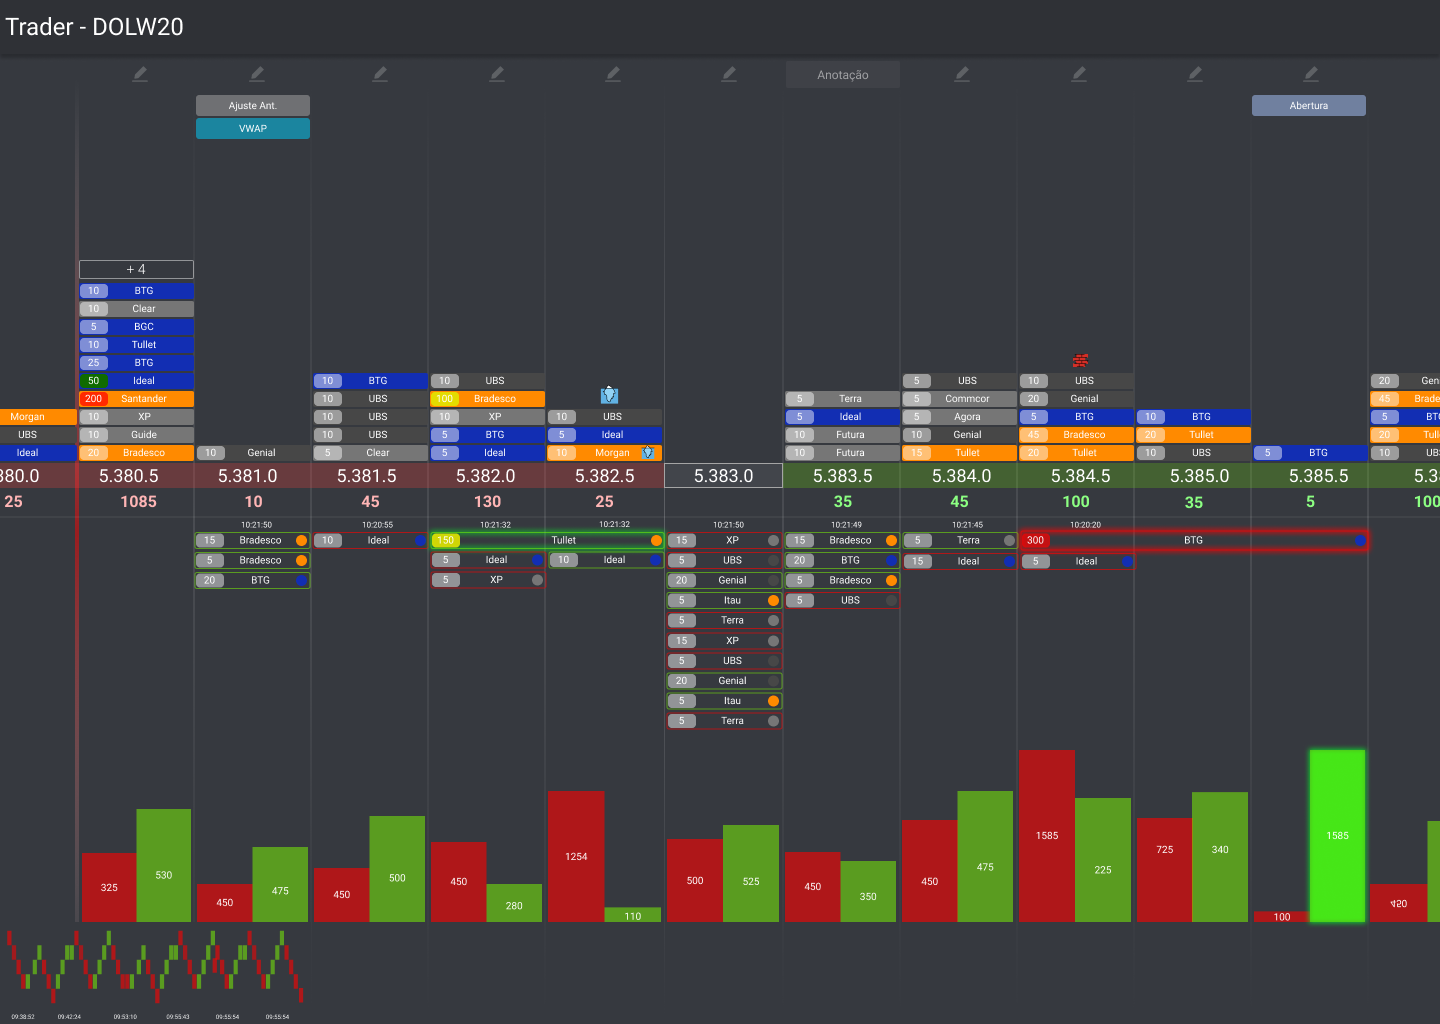
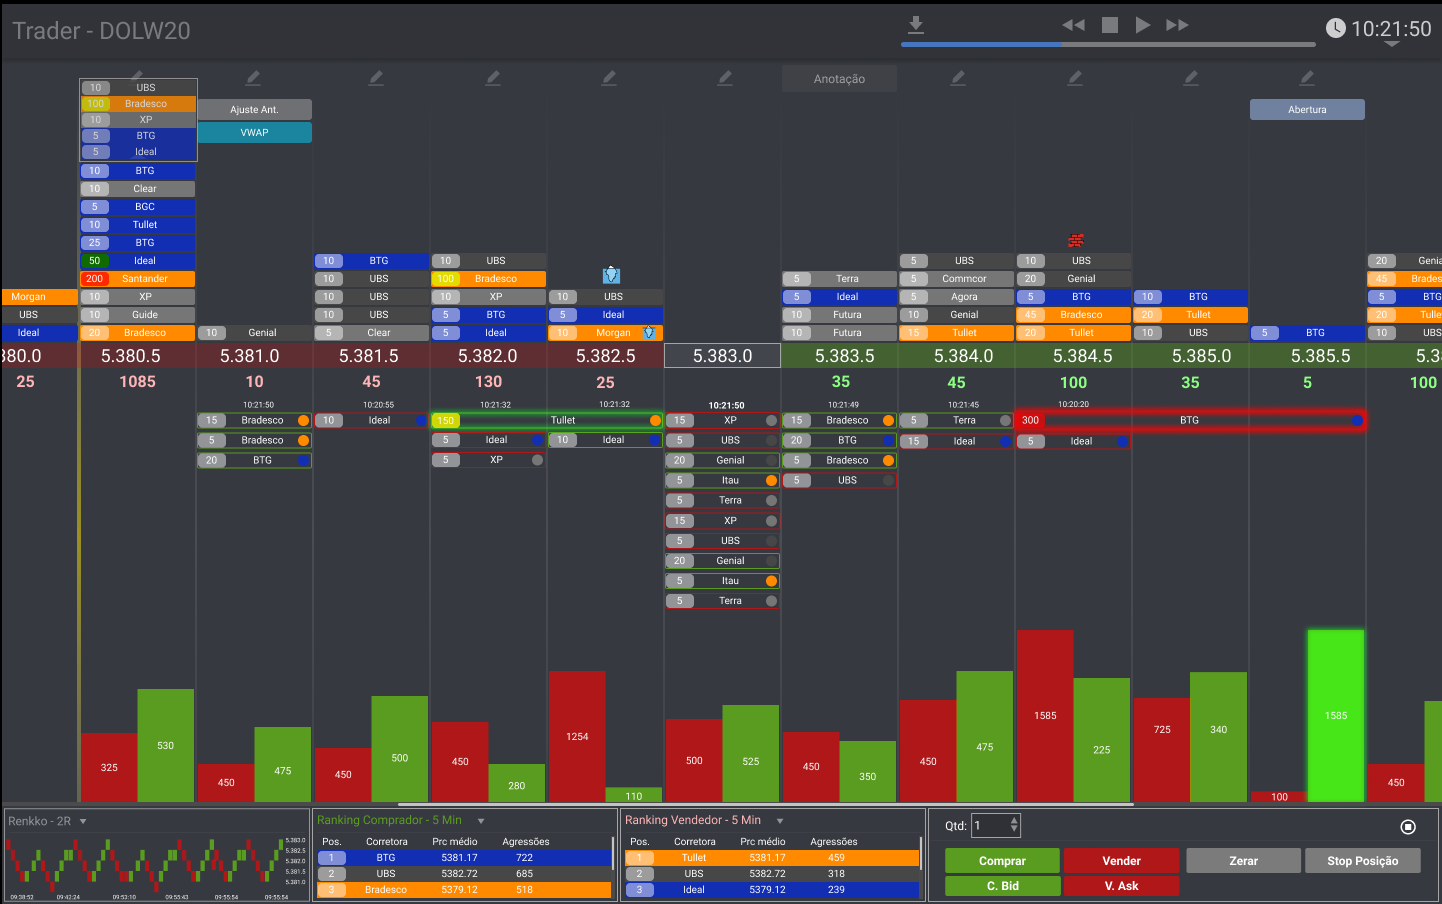
updated preview image

diff --git a/src/store.js b/src/store.js
@@ -37,12 +37,16 @@ export const agressions = writable(
         {agressor_id:2,time:124,price:5383.0,ticks_consumed:2,lots:100,type:'sell'},
         {agressor_id:1,time:124,price:5383.0,ticks_consumed:1,lots:100,type:'buy'},
         {agressor_id:1,time:124,price:5384.0,ticks_consumed:1,lots:10,type:'sell'},
-        {agressor_id:1,time:124,price:5385.0,ticks_consumed:1,lots:15,type:'sell'},
-        {agressor_id:1,time:124,price:5385.0,ticks_consumed:1,lots:15,type:'sell'},
-        {agressor_id:2,time:124,price:5385.0,ticks_consumed:1,lots:10,type:'buy'},
-        {agressor_id:1,time:124,price:5385.5,ticks_consumed:1,lots:200,type:'sell'},
-        {agressor_id:2,time:124,price:5385.5,ticks_consumed:1,lots:200,type:'sell'},
-        {agressor_id:2,time:124,price:5385.5,ticks_consumed:1,lots:100,type:'buy'}
+        {agressor_id:2,time:124,price:5384.0,ticks_consumed:1,lots:10,type:'buy'},
+        {agressor_id:1,time:124,price:5384.5,ticks_consumed:2,lots:200,type:'sell'},
+        {agressor_id:2,time:124,price:5384.5,ticks_consumed:1,lots:200,type:'sell'},
+        {agressor_id:2,time:124,price:5384.5,ticks_consumed:1,lots:100,type:'buy'},
+        {agressor_id:1,time:124,price:5385.5,ticks_consumed:1,lots:15,type:'sell'},
+        {agressor_id:1,time:124,price:5385.5,ticks_consumed:1,lots:15,type:'sell'},
+        {agressor_id:2,time:124,price:5385.5,ticks_consumed:1,lots:10,type:'buy'},
+        {agressor_id:1,time:124,price:5385.5,ticks_consumed:1,lots:100,type:'sell'},
+        {agressor_id:2,time:124,price:5385.5,ticks_consumed:1,lots:5,type:'sell'},
+        {agressor_id:2,time:124,price:5385.5,ticks_consumed:1,lots:5000,type:'buy'},
     ]
 )
 

diff --git a/src/components/VAP/VAP.svelte b/src/components/VAP/VAP.svelte
@@ -24,6 +24,7 @@
         maxSum = buysSum > sellSum ? buysSum : sellSum // max agression on this price
         buyPercent = ((buysSum * 100) / $maxVolume) || 1
         sellPercent = ((sellSum * 100) / $maxVolume) || 1
+        console.log(buyPercent,buysSum)
     }
     /**
      Set te max agression volume of all prices
@@ -32,6 +33,7 @@
         if(maxSum > $maxVolume) {
             maxVolume.set(maxSum)
         }
+        return $maxVolume
     }
 
     onMount(()=>{
@@ -41,6 +43,7 @@
         updateMaxVolume()
         updateBars()
     })
+
 
 
 </script>
